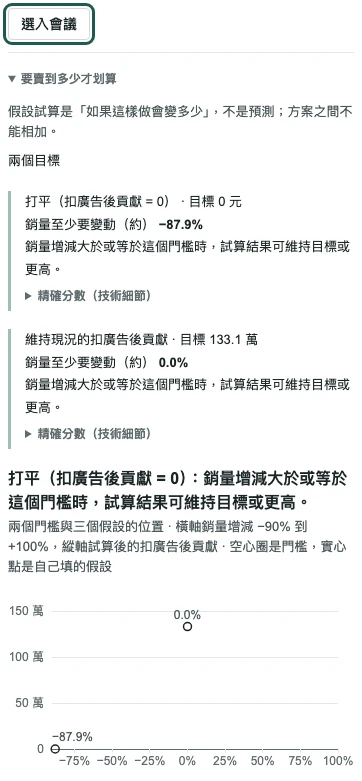
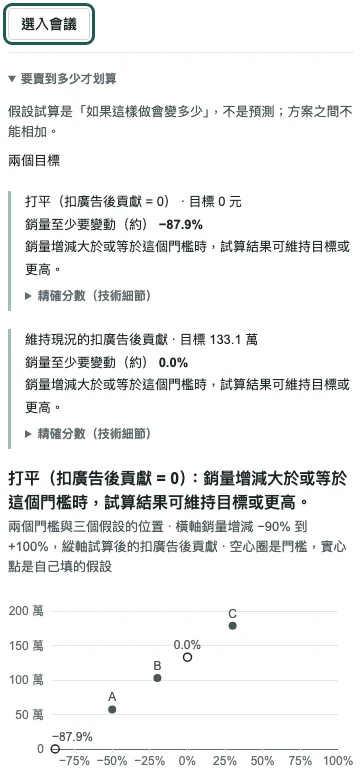
revamp(V41-2b): 審查修正——假設試算第 2 步不再引用已在 R5 移除的「全部填 0（維持現況）」按鈕，改寫成「套用範本」「維持現況」會把五格都填 0（GUIDE_CONTENT §2.6 同步更正）；scenarios-threshold 擷取時三個假設填 −50、−20、30 並按「試算三個假設」，圖上有實心點 A、B、C，alt 補回三個假設的位置（GUIDE_CONTENT §2.6 擷取欄補註）；GUIDE_MEDIA=write 只重拍 scenarios-threshold（PNG、WebP、清單 sha256／bytes）並更新 scenarios-inputs

diff --git a/verification/guide-media/capture.spec.ts b/verification/guide-media/capture.spec.ts
@@ -1,5 +1,5 @@
 import { expect, test, type Locator, type Page } from "@playwright/test";
-import { labels } from "../../src/i18n";
+import { fill, labels } from "../../src/i18n";
 import { wizardDetails } from "../../tests/e2e/import-wizard-helpers";
 import { openBasis, openDetails, openDownloads, openStorage } from "../../tests/e2e/replacement-helpers";
 import { NO_OVERLAY_STYLE, evidenceDrawer, goTo, noOverlayStylePath } from "../revamp-v4-capture/shared";
@@ -57,6 +57,8 @@ const toDiagnosis = async (page: Page) => { await stateDemo(page); await goTo(pa
 const toProducts = async (page: Page) => { await stateDemo(page); await goTo(page, "products", page.getByTestId("product-table")); };
 // ── V41-2b ──
 const scenarioCard = (page: Page, n: number) => page.getByTestId(`scenario-${n}`);
+/** scenarios-threshold 的三個銷量假設 A、B、C（%；虛構的值，在 −90% 到 +100% 內，不與兩個門檻重疊）。 */
+const SENSITIVITY_VOLUMES = ["-50", "-20", "30"] as const;
 const toScenarios = async (page: Page) => { await stateDemo(page); await goTo(page, "scenarios", scenarioCard(page, 1)); };
 const toActions = async (page: Page) => { await stateActionsAndMeeting(page); await goTo(page, "actions", page.getByTestId("action-board")); };
 const toData = async (page: Page) => { await stateDemo(page); await goTo(page, "data", page.getByTestId("data-scope")); };
@@ -267,12 +269,18 @@ const CAPTURES: Record<string, Capture> = {
     region: page => [page.getByTestId("chart-scenarios-variance"), page.locator("section.scenario-compare")],
     pad: 8,
   },
-  // S6，方案 1 展開「要賣到多少才划算」：「選入會議」到門檻圖的圖框（兩個門檻；三個假設沒有填，不代填；圖下的資料表收合列不截）；框「選入會議」。
+  // S6，方案 1 展開「要賣到多少才划算」，三個假設填 SENSITIVITY_VOLUMES 並按「試算三個假設」（像使用者一樣明填，系統不代填）：
+  // 「選入會議」到門檻圖的圖框（兩個門檻是空心圈、三個假設是實心點 A、B、C；圖下的資料表收合列與輸入格不截）；框「選入會議」。
   "scenarios-threshold": {
     state: async page => {
       await stateScenarios(page);
-      await openDetails(scenarioCard(page, 1).getByTestId("scenario-sensitivity"));
+      const sensitivity = scenarioCard(page, 1).getByTestId("scenario-sensitivity");
+      await openDetails(sensitivity);
       await expect(scenarioCard(page, 1).getByTestId("chart-scenarios-threshold")).toBeVisible();
+      for (const [index, value] of SENSITIVITY_VOLUMES.entries()) await sensitivity.getByLabel(fill(labels.scenarios.sensitivity.inputLabel, { letter: String.fromCharCode(65 + index) }), { exact: true }).fill(value);
+      await sensitivity.getByRole("button", { name: labels.scenarios.sensitivity.recalc, exact: true }).click();
+      await expect(sensitivity.getByTestId("sensitivity-result").getByRole("table")).toBeVisible();
+      for (const id of ["a", "b", "c"]) await expect(sensitivity.getByTestId(`chart-scenarios-threshold-point-${id}`)).toBeVisible();
     },
     region: page => [page.getByTestId("scenario-select-1"), scenarioCard(page, 1).getByTestId("chart-scenarios-threshold").locator(".chart-frame")],
     highlight: page => [page.getByTestId("scenario-select-1")],

diff --git a/src/i18n/guide.zh-TW.ts b/src/i18n/guide.zh-TW.ts
@@ -331,7 +331,7 @@ export const guideLabels = {
           },
           inputs: {
             title: "填假設並試算",
-            body: "填{ui:scenarios.inputs.volume.label}、{ui:scenarios.inputs.discount.label}、{ui:scenarios.inputs.fulfillmentUnit.label}、{ui:scenarios.inputs.adSpend.label}與{ui:scenarios.inputs.oneOff.label}；不變的填 0（{ui:scenarios.buttons.fillZero}）。勾選{ui:scenarios.inputs.acceptAssumptions}後按{ui:scenarios.buttons.calculate}。",
+            body: "填{ui:scenarios.inputs.volume.label}、{ui:scenarios.inputs.discount.label}、{ui:scenarios.inputs.fulfillmentUnit.label}、{ui:scenarios.inputs.adSpend.label}與{ui:scenarios.inputs.oneOff.label}；不變的填 0（{ui:scenarios.buttons.applyTemplate}「{ui:scenarios.presets.items.keep.name}」會把五格都填 0）。勾選{ui:scenarios.inputs.acceptAssumptions}後按{ui:scenarios.buttons.calculate}。",
             alt: "方案的五個假設欄位，下方是確認勾選框與「{ui:scenarios.buttons.calculate}」按鈕；強調框框住「{ui:scenarios.buttons.calculate}」按鈕。",
             caption: "按下後，方案欄寫出試算後的扣廣告後貢獻。",
           },
@@ -344,7 +344,7 @@ export const guideLabels = {
           threshold: {
             title: "看{ui:scenarios.sections.scenarioBreakeven}，再{ui:meeting.buttons.selectForMeeting}",
             body: "{ui:scenarios.sections.scenarioBreakeven}填三個銷量假設，看兩個門檻落在哪裡；決定要討論的方案按{ui:meeting.buttons.selectForMeeting}。",
-            alt: "「{ui:meeting.buttons.selectForMeeting}」下方展開{ui:scenarios.sections.scenarioBreakeven}：打平與維持現況兩個門檻，下面的圖用空心圈標出門檻的位置，橫軸是銷量增減；強調框框住「{ui:meeting.buttons.selectForMeeting}」。",
+            alt: "「{ui:meeting.buttons.selectForMeeting}」下方展開{ui:scenarios.sections.scenarioBreakeven}：打平與維持現況兩個門檻，下面的圖用空心圈標出兩個門檻、實心點 A、B、C 標出三個假設的位置，橫軸是銷量增減；強調框框住「{ui:meeting.buttons.selectForMeeting}」。",
             caption: "選入後，這個方案會帶進{ui:shell.nav.meeting.headline}。",
           },
         },

diff --git a/docs/revamp-v4.1/GUIDE_CONTENT.md b/docs/revamp-v4.1/GUIDE_CONTENT.md
@@ -305,7 +305,7 @@ S2（原為「示範資料＋目標」）沒有步驟用到，已刪除；代號
 - alt：`{ui:shell.nav.scenarios.headline}`的方案欄，可以選通路與範本。
 
 **2. 填假設並試算**（`inputs`）
-- 文字：填 `{ui:scenarios.inputs.volume.label}`、`{ui:scenarios.inputs.discount.label}`、`{ui:scenarios.inputs.fulfillmentUnit.label}`、`{ui:scenarios.inputs.adSpend.label}` 與 `{ui:scenarios.inputs.oneOff.label}`；不變的填 0（`{ui:scenarios.buttons.fillZero}`）。勾選 `{ui:scenarios.inputs.acceptAssumptions}` 後按 `{ui:scenarios.buttons.calculate}`。
+- 文字：填 `{ui:scenarios.inputs.volume.label}`、`{ui:scenarios.inputs.discount.label}`、`{ui:scenarios.inputs.fulfillmentUnit.label}`、`{ui:scenarios.inputs.adSpend.label}` 與 `{ui:scenarios.inputs.oneOff.label}`；不變的填 0（`{ui:scenarios.buttons.applyTemplate}`「`{ui:scenarios.presets.items.keep.name}`」會把五格都填 0；V41-2b 更正：「全部填 0」按鈕已在 R5 移除）。勾選 `{ui:scenarios.inputs.acceptAssumptions}` 後按 `{ui:scenarios.buttons.calculate}`。
 - 截圖：`scenarios-inputs`｜S1，範本 `{ui:scenarios.presets.items.keep.name}` 已帶入｜輸入區與勾選框｜強調框：試算按鈕
 - alt：方案的五個假設欄位，下方是確認勾選框與試算按鈕。
 
@@ -316,7 +316,7 @@ S2（原為「示範資料＋目標」）沒有步驟用到，已刪除；代號
 
 **4. 看`{ui:scenarios.sections.scenarioBreakeven}`，再`{ui:meeting.buttons.selectForMeeting}`**（`threshold`）
 - 文字：`{ui:scenarios.sections.scenarioBreakeven}` 填三個銷量假設，看兩個門檻落在哪裡；決定要討論的方案按 `{ui:meeting.buttons.selectForMeeting}`。
-- 截圖：`scenarios-threshold`｜S6，展開門檻區｜門檻圖與選入會議按鈕｜強調框：選入會議
+- 截圖：`scenarios-threshold`｜S6，展開門檻區，三個假設填 −50、−20、30 並按 `{ui:scenarios.sensitivity.recalc}`（V41-2b 補：沒有填時圖上沒有實心點）｜門檻圖與選入會議按鈕｜強調框：選入會議
 - alt：兩個門檻與三個假設的位置，橫軸是銷量增減。
 
 - 要注意：這是「如果這樣做會變多少」的試算，不是預測；銷量範圍固定在 −90% 到 +100%，系統不外推、不代填。
